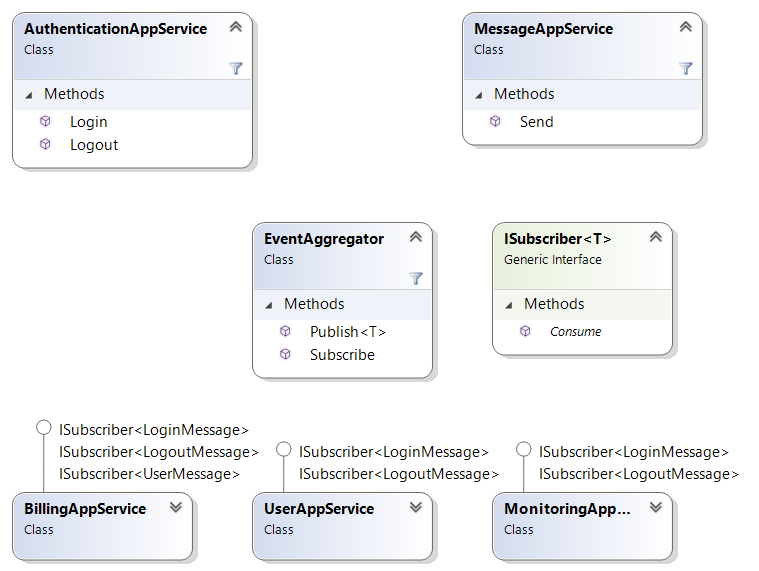
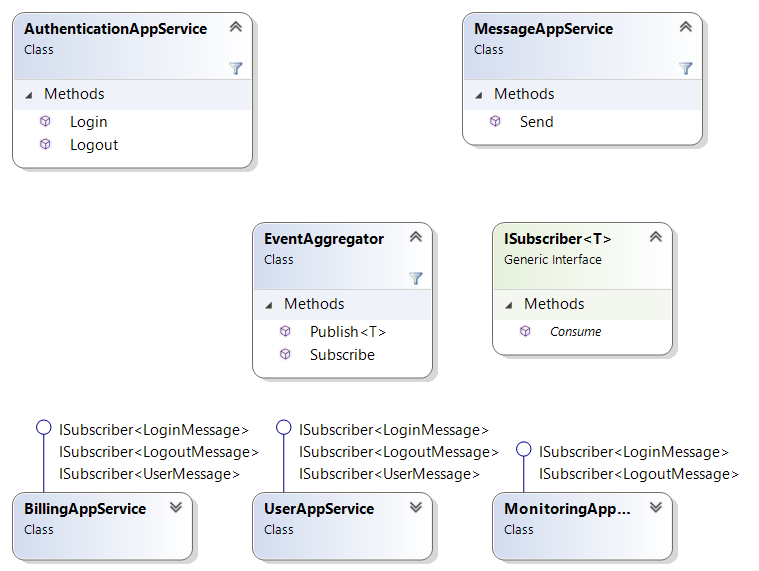
display user messages in UserAppService

Changed region(s): [[0.3636, 0.7443, 0.697, 0.8634]]

diff --git a/kata-gof-pattern-eventaggregator-irc-tests/EventAggregatorTest.cs b/kata-gof-pattern-eventaggregator-irc-tests/EventAggregatorTest.cs
@@ -14,6 +14,7 @@ namespace kata_gof_pattern_eventaggregator_irc_tests
         private readonly EventAggregator _eventAggregator;
         private readonly AuthenticationAppService _authService;
         private readonly Mock<IMessageView> _messagesMock;
+        private readonly MessageAppService _messageService;
 
         public EventAggregatorTest()
         {
@@ -25,6 +26,7 @@ namespace kata_gof_pattern_eventaggregator_irc_tests
             _eventAggregator = new EventAggregator();
 
             _authService = new AuthenticationAppService(_eventAggregator);
+            _messageService = new MessageAppService(_eventAggregator);
         }
 
         [Fact]
@@ -50,10 +52,9 @@ namespace kata_gof_pattern_eventaggregator_irc_tests
             _messagesMock.Setup(x => x.Add(Capture.In(messageArgs)));
 
             var billingService = new BillingAppService(_eventAggregator, _messagesMock.Object);
-            var messageService = new MessageAppService(_eventAggregator, _messagesMock.Object);
-            messageService.Send("Hello World", _username, "bob");
-            messageService.Send("Hello World", _username, "bob");
-            messageService.Send("Hello World", _username, "bob");
+            _messageService.Send("Hello World", _username, "bob");
+            _messageService.Send("Hello World", _username, "bob");
+            _messageService.Send("Hello World", _username, "bob");
 
             Assert.Equal(new[]
             {
@@ -77,6 +78,14 @@ namespace kata_gof_pattern_eventaggregator_irc_tests
             var userService = new UserAppService(_eventAggregator, _messagesMock.Object);
             _authService.Logout(_username, _timestamp);
             _messagesMock.Verify(x => x.Add($"User {_username} logged out"));
+        }
+
+        [Fact]
+        public void UsersView_OtherSendsMessage_ShowsMessage()
+        {
+            var userService = new UserAppService(_eventAggregator, _messagesMock.Object);
+            _messageService.Send("Hello World", _username, "bob");
+            _messagesMock.Verify(x => x.Add($"{_username}: Hello World"));
         }
 
         [Fact]

diff --git a/kata-gof-pattern-eventaggregator-irc/UserAppService.cs b/kata-gof-pattern-eventaggregator-irc/UserAppService.cs
@@ -1,6 +1,9 @@
 namespace kata_gof_pattern_eventaggregator_irc
 {
-    public class UserAppService : ISubscriber<LoginMessage>, ISubscriber<LogoutMessage>
+    public class UserAppService :
+        ISubscriber<LoginMessage>,
+        ISubscriber<LogoutMessage>,
+        ISubscriber<UserMessage>
     {
         private readonly IMessageView _messagesView;
 
@@ -22,6 +25,10 @@ namespace kata_gof_pattern_eventaggregator_irc
             _messagesView.Add(messageString);
         }
 
-        TODO: Show messages sent by another user
+        public void Consume(UserMessage message)
+        {
+            var messageString = $"{message.From}: {message.Message}";
+            _messagesView.Add(messageString);
+        }
     }
 }

diff --git a/kata-gof-pattern-eventaggregator-irc/MessageAppService.cs b/kata-gof-pattern-eventaggregator-irc/MessageAppService.cs
@@ -3,12 +3,10 @@ namespace kata_gof_pattern_eventaggregator_irc
     public class MessageAppService
     {
         private readonly EventAggregator _eventAggregator;
-        private readonly IMessageView _messageView;
 
-        public MessageAppService(EventAggregator eventAggregator, IMessageView messageView)
+        public MessageAppService(EventAggregator eventAggregator)
         {
             _eventAggregator = eventAggregator;
-            _messageView = messageView;
         }
 
         public void Send(string message, string from, string to)
